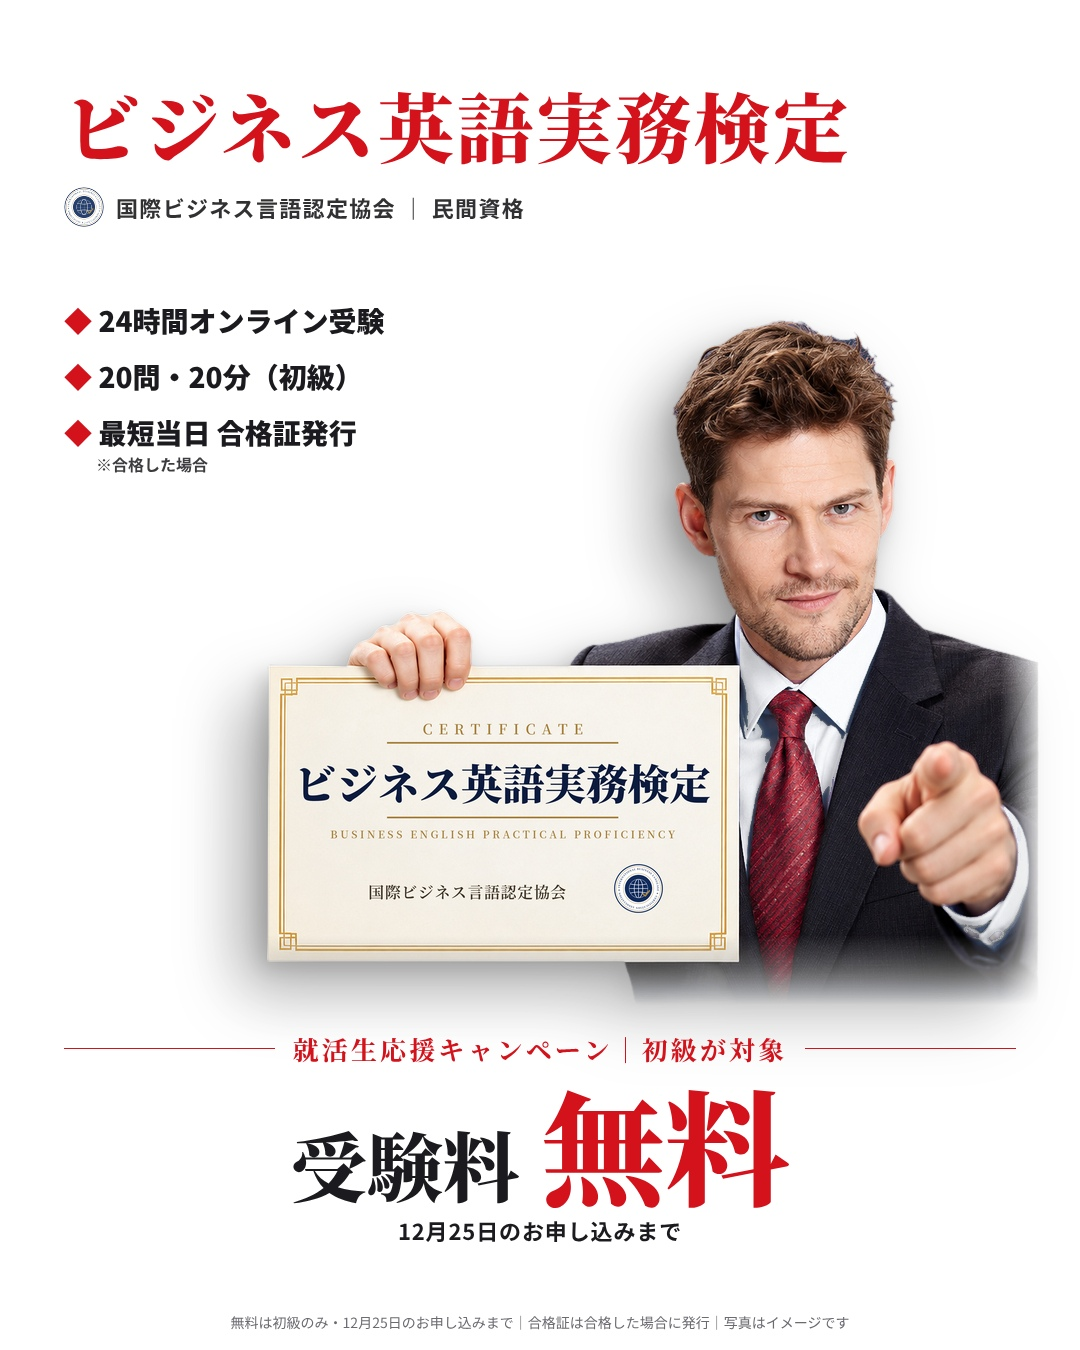
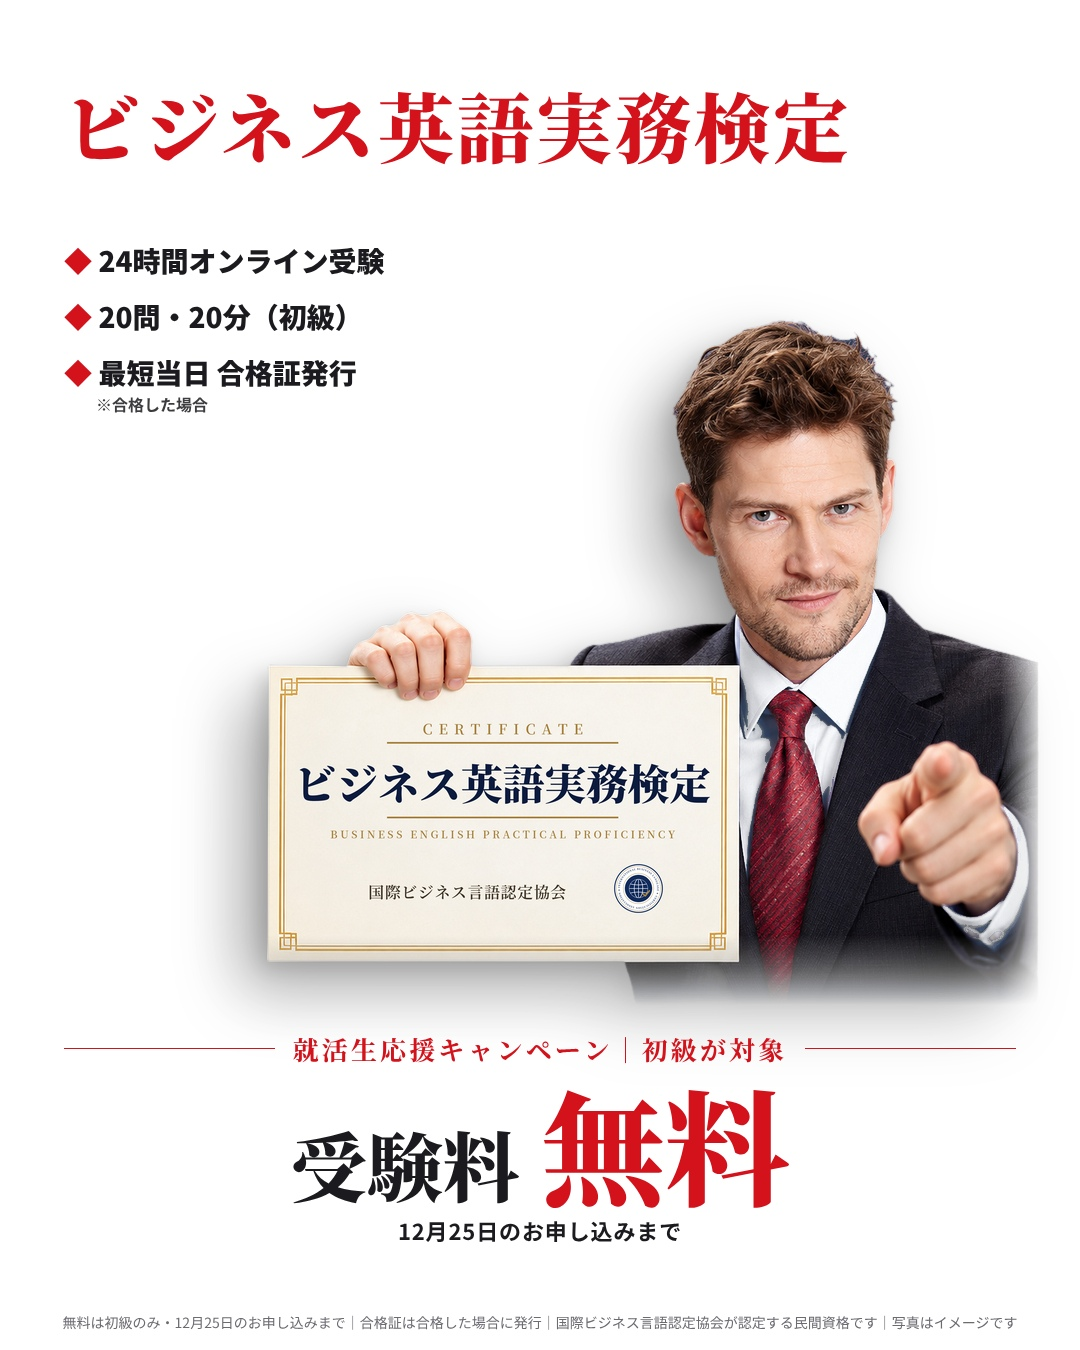
2枚目白ベース：協会名の行を外す
Claude-Session: https://claude.ai/code/session_014p5jKzC7vmuyPAkeTgUdi2

diff --git a/content/posters/redwhite/k3.html b/content/posters/redwhite/k3.html
@@ -6,7 +6,7 @@ body{background:#fff;color:#1b1b1f;font-family:"Noto Serif CJK JP",serif;-webkit
 .top .n{font-weight:900;font-size:76px;letter-spacing:.04em;color:#d3121c}
 .top .s{font-family:"Noto Sans CJK JP";font-weight:700;font-size:22px;letter-spacing:.06em;opacity:.9;margin-top:8px;display:flex;align-items:center;gap:12px}
 .top .s img{width:40px;height:40px;border-radius:50%}
-.chips{position:absolute;left:64px;top:300px;z-index:3;display:flex;flex-direction:column;gap:16px;font-family:"Noto Sans CJK JP";font-weight:900;font-size:28px}
+.chips{position:absolute;left:64px;top:240px;z-index:3;display:flex;flex-direction:column;gap:16px;font-family:"Noto Sans CJK JP";font-weight:900;font-size:28px}
 .chips span:before{content:"◆ ";color:#d3121c}.chips small{display:block;margin-left:32px;font-size:16px;font-weight:700;opacity:.85}
 .bot{position:absolute;left:64px;right:64px;top:1030px;z-index:3;text-align:center}
 .bot .t{display:flex;align-items:center;gap:18px}
@@ -18,8 +18,8 @@ body{background:#fff;color:#1b1b1f;font-family:"Noto Serif CJK JP",serif;-webkit
 .note{position:absolute;left:0;right:0;top:1312px;text-align:center;font-family:"Noto Sans CJK JP";font-size:14px;opacity:1;color:#6b6b72;z-index:3}
 </style></head><body>
 <img class="fig" src="man_wf_red_w.png">
-<div class="top"><div class="n">ビジネス英語実務検定</div><div class="s"><img src="logo.png">国際ビジネス言語認定協会 ｜ 民間資格</div></div>
+<div class="top"><div class="n">ビジネス英語実務検定</div></div>
 <div class="chips"><span>24時間オンライン受験</span><span>20問・20分（初級）</span><span>最短当日 合格証発行<small>※合格した場合</small></span></div>
 <div class="bot"><div class="t"><span>就活生応援キャンペーン｜初級が対象</span></div><div class="a">受験料<b>無料</b></div><div class="d">12月25日のお申し込みまで</div></div>
-<div class="note">無料は初級のみ・12月25日のお申し込みまで｜合格証は合格した場合に発行｜写真はイメージです</div>
+<div class="note">無料は初級のみ・12月25日のお申し込みまで｜合格証は合格した場合に発行｜国際ビジネス言語認定協会が認定する民間資格です｜写真はイメージです</div>
 </body></html>

diff --git a/log/posted.md b/log/posted.md
@@ -165,3 +165,4 @@
 - 2026-11-02 作成｜Instagram 2枚広告（カルーセル）｜assets/images/ad_carousel_madamaniau/（1枚目：まだ間に合う。就活で語れる強みを。／2枚目：赤地に写真モデル〈白シャツ・元のネクタイ〉＋検定名・特長・初級受験料無料 12/25申込まで）｜出稿はオーナー
 - 2026-11-02 作成｜2枚広告の2枚目・白ベース版（白地・黒と赤の字・赤ネクタイ白シャツのモデル）｜出稿はオーナー
 - 2026-11-02 変更｜これからの自動投稿にハッシュタグ #ビジ検 を必ず入れる（RUNBOOK・rules/00 に追記）。予約済みの 11/3 インスタ・11/5 TikTok にも追加（時刻ずれなし）
+- 2026-11-02 修正｜2枚広告の2枚目（白ベース）：検定名の下の協会名・民間資格の行を外し、民間資格の表記は一番下の注記へ
